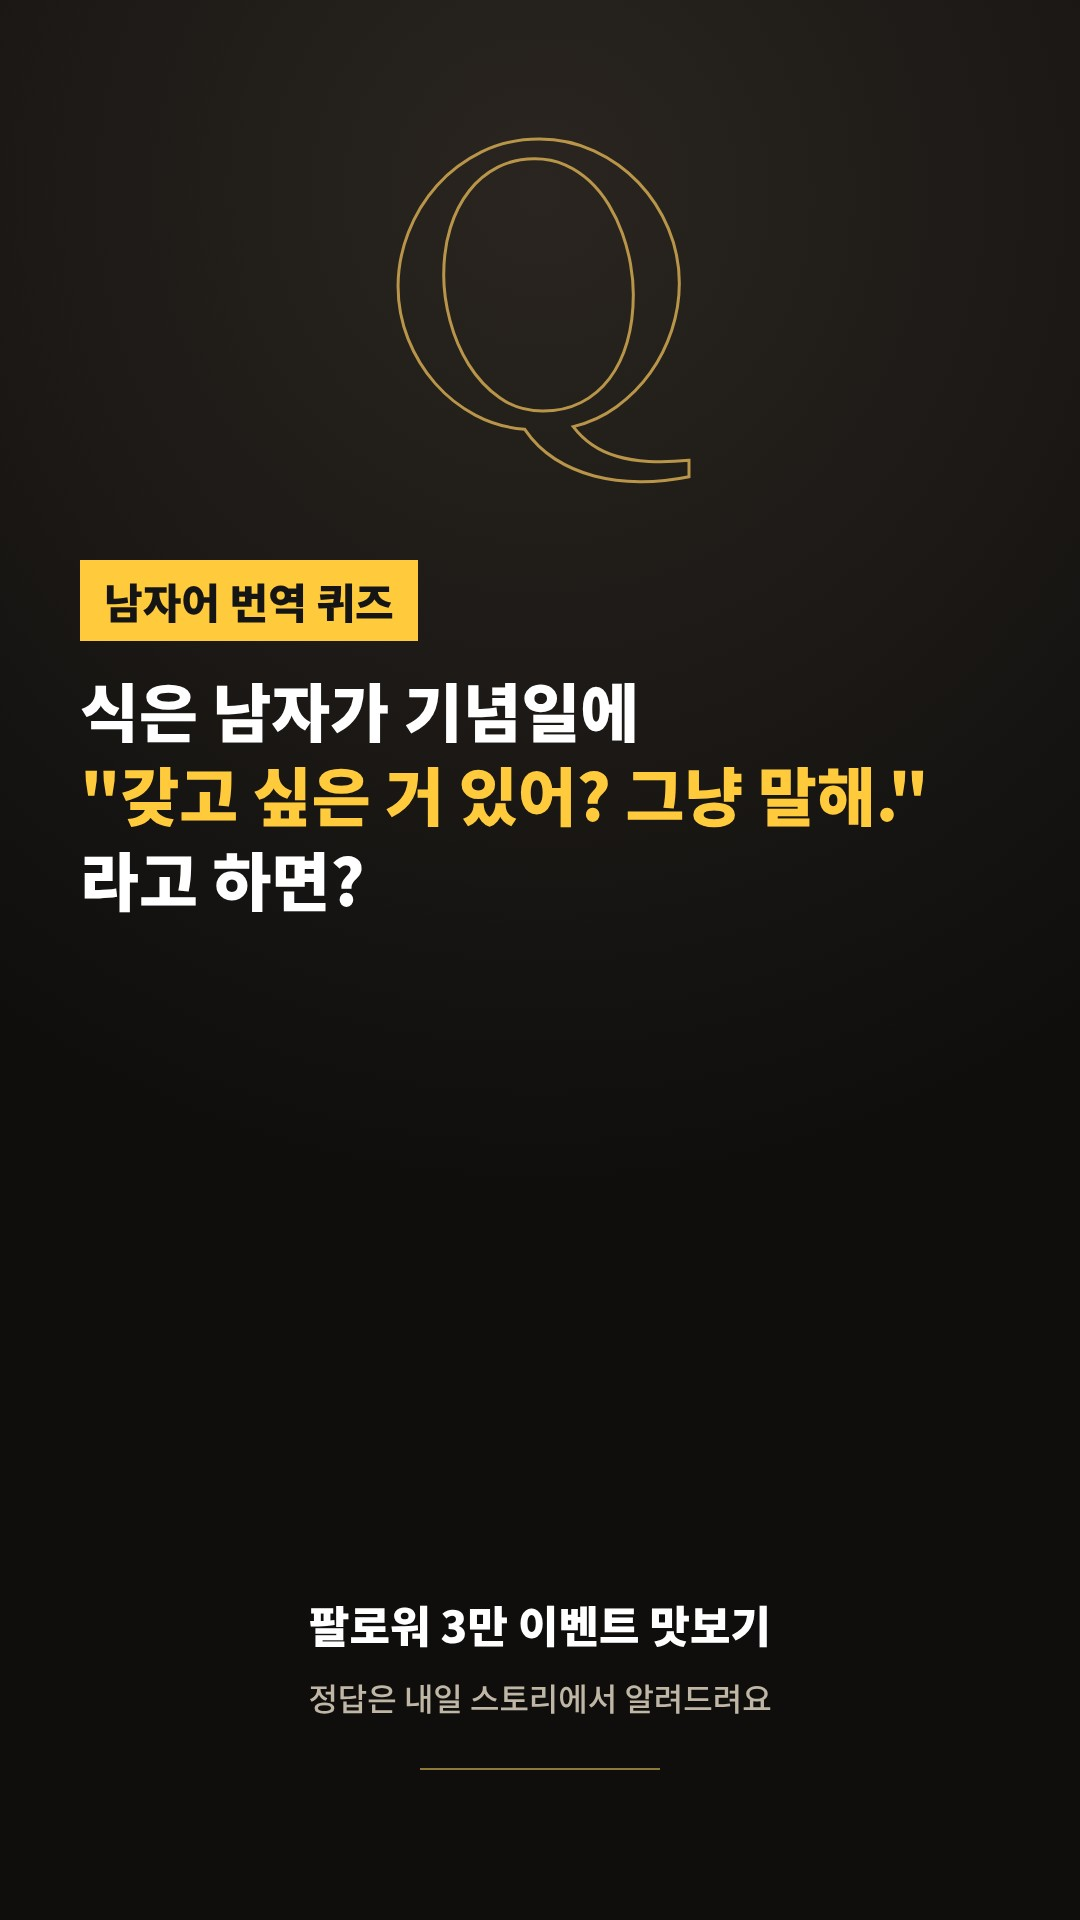
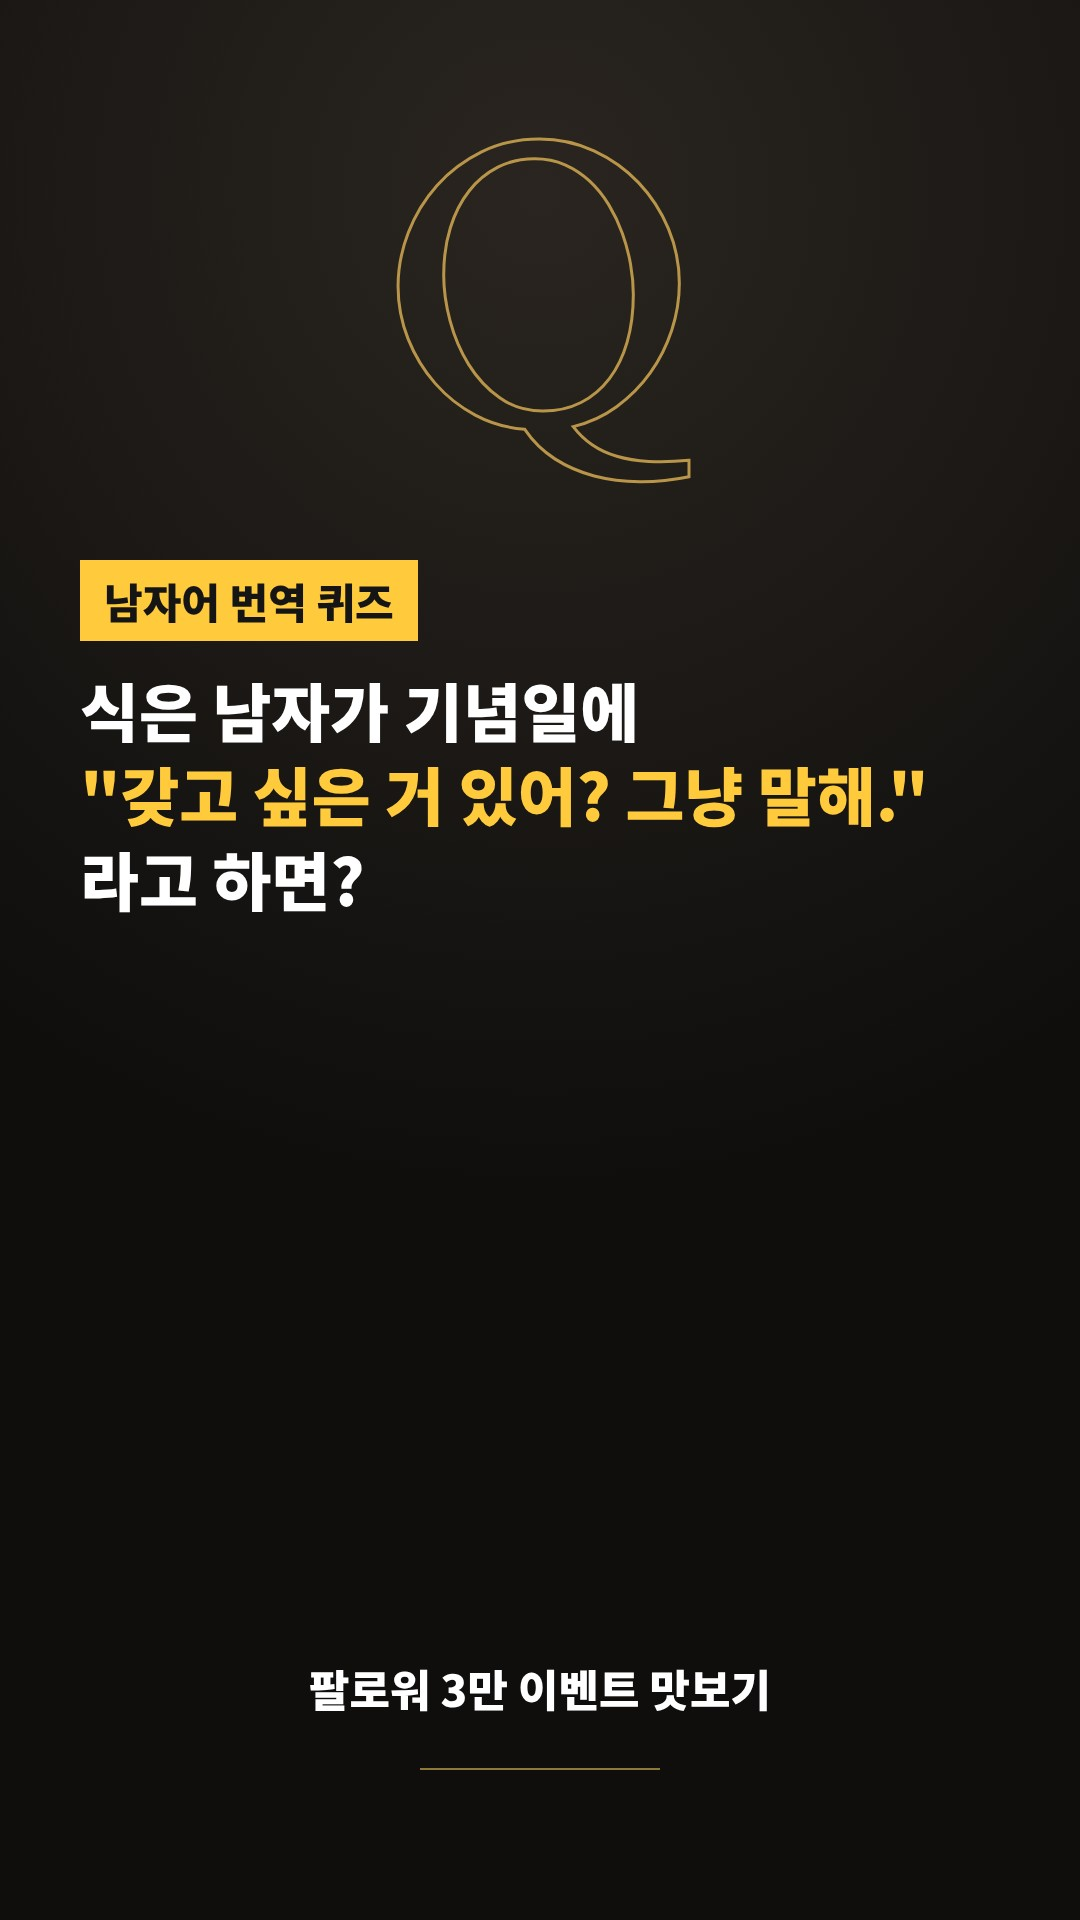
스토리 퀴즈 3: 정답 안내 문구 빼기 (스토리 댓글로 안내)
Claude-Session: https://claude.ai/code/session_01J9i5yL8MFhQ5W67Sx3nDW6

Changed region(s): [[0.275, 0.8125, 0.7333, 0.9062]]

diff --git a/carousel/story/quiz3.html b/carousel/story/quiz3.html
@@ -15,6 +15,6 @@ section{width:1080px;height:1920px;position:relative;background:radial-gradient(
 <div class="big">Q</div>
 <div class="top"><span class="tag">남자어 번역 퀴즈</span>
 <div class="t">식은 남자가 기념일에<br><em>"갖고 싶은 거 있어? 그냥 말해."</em><br>라고 하면?</div></div>
-<div class="bot"><b>팔로워 3만 이벤트 맛보기</b><small>정답은 내일 스토리에서 알려드려요</small></div>
+<div class="bot"><b>팔로워 3만 이벤트 맛보기</b></div>
 <div class="line"></div>
 </section></body></html>
